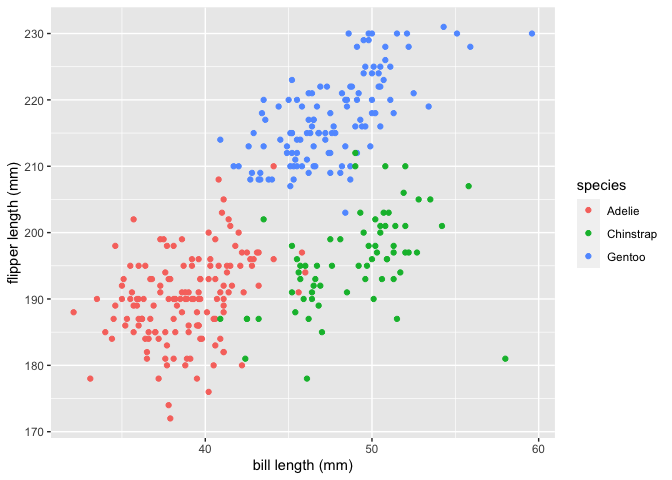
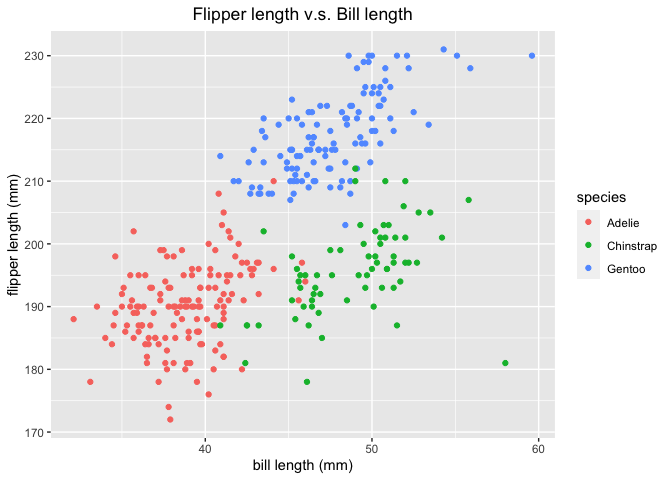
added collapse=true to make the blocks look better

diff --git a/HW1.md b/HW1.md
@@ -1,6 +1,7 @@
 Homework 1
 ================
 Beibei Cao
+September 15, 2020
 
 This is my solution to HW1.
 
@@ -21,7 +22,7 @@ library(tidyverse)
 
 ## Problem 1
 
-Create a data frame with the specified elements.
+#### Create a data frame
 
 ``` r
 prob1_df = 
@@ -33,134 +34,85 @@ prob1_df =
   )
 ```
 
-Take the mean of each variable in my data frame.
+#### Take the mean of each variable
 
 ``` r
 mean(pull(prob1_df, samp))
-```
-
-    ## [1] -0.1761727
-
-``` r
+## [1] -0.07518478
 mean(pull(prob1_df, samp_gt_0))
-```
-
-    ## [1] 0.4
-
-``` r
+## [1] 0.6
 mean(pull(prob1_df, char_vec))
-```
-
-    ## Warning in mean.default(pull(prob1_df, char_vec)): argument is not numeric or
-    ## logical: returning NA
-
-    ## [1] NA
-
-``` r
+## Warning in mean.default(pull(prob1_df, char_vec)): argument is not numeric or
+## logical: returning NA
+## [1] NA
 mean(pull(prob1_df, factor_vec))
+## Warning in mean.default(pull(prob1_df, factor_vec)): argument is not numeric or
+## logical: returning NA
+## [1] NA
 ```
-
-    ## Warning in mean.default(pull(prob1_df, factor_vec)): argument is not numeric or
-    ## logical: returning NA
-
-    ## [1] NA
 
 I can take the means of numbers and logical but not character or factor.
 
-Use `as.numeric` function to convert variables from one type to another.
+#### Use `as.numeric` function to convert variables
 
 ``` r
 as.numeric(pull(prob1_df, samp))
-```
-
-    ##  [1]  0.31841734 -0.10554769  0.80567180 -0.62153035  0.90709091 -0.63005967
-    ##  [7] -0.24643898  0.41734388 -2.55640962 -0.05026443
-
-``` r
+##  [1] -0.8566581  1.1620176  0.4099954 -1.5291904  0.3302032  1.0816822
+##  [7] -1.0585672  0.2710397  0.4074553 -0.9698255
 as.numeric(pull(prob1_df, samp_gt_0))
-```
-
-    ##  [1] 1 0 1 0 1 0 0 1 0 0
-
-``` r
+##  [1] 0 1 1 0 1 1 0 1 1 0
 as.numeric(pull(prob1_df, char_vec))
-```
-
-    ## Warning: NAs introduced by coercion
-
-    ##  [1] NA NA NA NA NA NA NA NA NA NA
-
-``` r
+## Warning: NAs introduced by coercion
+##  [1] NA NA NA NA NA NA NA NA NA NA
 as.numeric(pull(prob1_df, factor_vec))
+##  [1] 2 2 2 3 3 3 3 1 1 1
 ```
 
-    ##  [1] 2 2 2 3 3 3 3 1 1 1
-
-Convert the logical vector to numeric, and multiply the random sample by
-the result.
+#### Convert variables
 
 ``` r
+# Convert the logical vector to numeric, and multiply the random sample by the result.
 as.numeric(pull(prob1_df, samp_gt_0)) * pull(prob1_df, samp)
-```
+##  [1] 0.0000000 1.1620176 0.4099954 0.0000000 0.3302032 1.0816822 0.0000000
+##  [8] 0.2710397 0.4074553 0.0000000
 
-    ##  [1] 0.3184173 0.0000000 0.8056718 0.0000000 0.9070909 0.0000000 0.0000000
-    ##  [8] 0.4173439 0.0000000 0.0000000
-
-Convert the logical vector to a factor, and multiply the random sample
-by the result.
-
-``` r
+# Convert the logical vector to a factor, and multiply the random sample by the result.
 as.factor(pull(prob1_df, samp_gt_0)) * pull(prob1_df, samp)
-```
+## Warning in Ops.factor(as.factor(pull(prob1_df, samp_gt_0)), pull(prob1_df, : '*'
+## not meaningful for factors
+##  [1] NA NA NA NA NA NA NA NA NA NA
 
-    ## Warning in Ops.factor(as.factor(pull(prob1_df, samp_gt_0)), pull(prob1_df, : '*'
-    ## not meaningful for factors
-
-    ##  [1] NA NA NA NA NA NA NA NA NA NA
-
-Convert the logical vector to a factor and then convert the result to
-numeric, and multiply the random sample by the result
-
-``` r
+# Convert the logical vector to a factor and then convert the result to numeric, and multiply the random sample by the result
 as.numeric(as.factor(pull(prob1_df, samp_gt_0))) * pull(prob1_df, samp)
+##  [1] -0.8566581  2.3240351  0.8199907 -1.5291904  0.6604065  2.1633644
+##  [7] -1.0585672  0.5420795  0.8149106 -0.9698255
 ```
 
-    ##  [1]  0.63683468 -0.10554769  1.61134359 -0.62153035  1.81418182 -0.63005967
-    ##  [7] -0.24643898  0.83468775 -2.55640962 -0.05026443
-
-why not `$`
+#### why not `$`
 
 ``` r
 prob1_df$samp
-```
+##  [1] -0.8566581  1.1620176  0.4099954 -1.5291904  0.3302032  1.0816822
+##  [7] -1.0585672  0.2710397  0.4074553 -0.9698255
 
-    ##  [1]  0.31841734 -0.10554769  0.80567180 -0.62153035  0.90709091 -0.63005967
-    ##  [7] -0.24643898  0.41734388 -2.55640962 -0.05026443
-
-``` r
 pull(prob1_df, samp)
-```
+##  [1] -0.8566581  1.1620176  0.4099954 -1.5291904  0.3302032  1.0816822
+##  [7] -1.0585672  0.2710397  0.4074553 -0.9698255
 
-    ##  [1]  0.31841734 -0.10554769  0.80567180 -0.62153035  0.90709091 -0.63005967
-    ##  [7] -0.24643898  0.41734388 -2.55640962 -0.05026443
-
-``` r
 prob1_df[["samp"]]
+##  [1] -0.8566581  1.1620176  0.4099954 -1.5291904  0.3302032  1.0816822
+##  [7] -1.0585672  0.2710397  0.4074553 -0.9698255
 ```
-
-    ##  [1]  0.31841734 -0.10554769  0.80567180 -0.62153035  0.90709091 -0.63005967
-    ##  [7] -0.24643898  0.41734388 -2.55640962 -0.05026443
 
 ## Problem 2
 
-Use the code below to download the package containing the `penguins`
-dataset:
+##### Use the code below to download the package containing the `penguins` dataset:
 
 ``` r
 install.packages("palmerpenguins")
 ```
 
-Load the data and take a look:
+##### Load the data and take a look:
 
 ``` r
 data("penguins", package = "palmerpenguins")
@@ -178,20 +130,23 @@ head(penguins)
     ## 6 Adelie  Torge…           39.3          20.6              190        3650 male 
     ## # … with 1 more variable: year <int>
 
-Description: the `penguins` dataset includes the following variables:
-`species, island, bill_length_mm, bill_depth_mm, flipper_length_mm,
-body_mass_g, sex, year`; it has `344` rows and `8` columns. The mean of
-the flipper length is `200.9152047` mm.
+##### Description:
 
-Make a scatterplot of `flipper_length_mm`(y) vs `bill_length_mm` (x);
-color points using the `species` variable.
+The `penguins` data set includes the following variables: `species,
+island, bill_length_mm, bill_depth_mm, flipper_length_mm, body_mass_g,
+sex, year`; the species include `Adelie, Chinstrap, Gentoo`; the data
+set has `344` rows and `8` columns. The mean of the flipper length is
+`200.9152047` mm.
+
+##### Make a scatterplot of `flipper_length_mm`(y) vs `bill_length_mm` (x); color points using the `species` variable.
 
 ``` r
-ggplot(na.omit(penguins), aes(x = bill_length_mm, y = flipper_length_mm, color = species)) + geom_point() + xlab("bill length (mm)") + ylab("flipper length (mm)")
+ggplot(na.omit(penguins), aes(x = bill_length_mm, y = flipper_length_mm, color = species, )) + geom_point() + xlab("bill length (mm)") + ylab("flipper length (mm)") + ggtitle("Flipper length v.s. Bill length") + theme(plot.title = element_text(hjust = 0.5))
 ```
 
 ![](HW1_files/figure-gfm/plot_and_save-1.png)<!-- -->
 
 ``` r
+# save the plot as pdf
 ggsave("scatter_plot.pdf", height = 4, width = 4)
 ```
